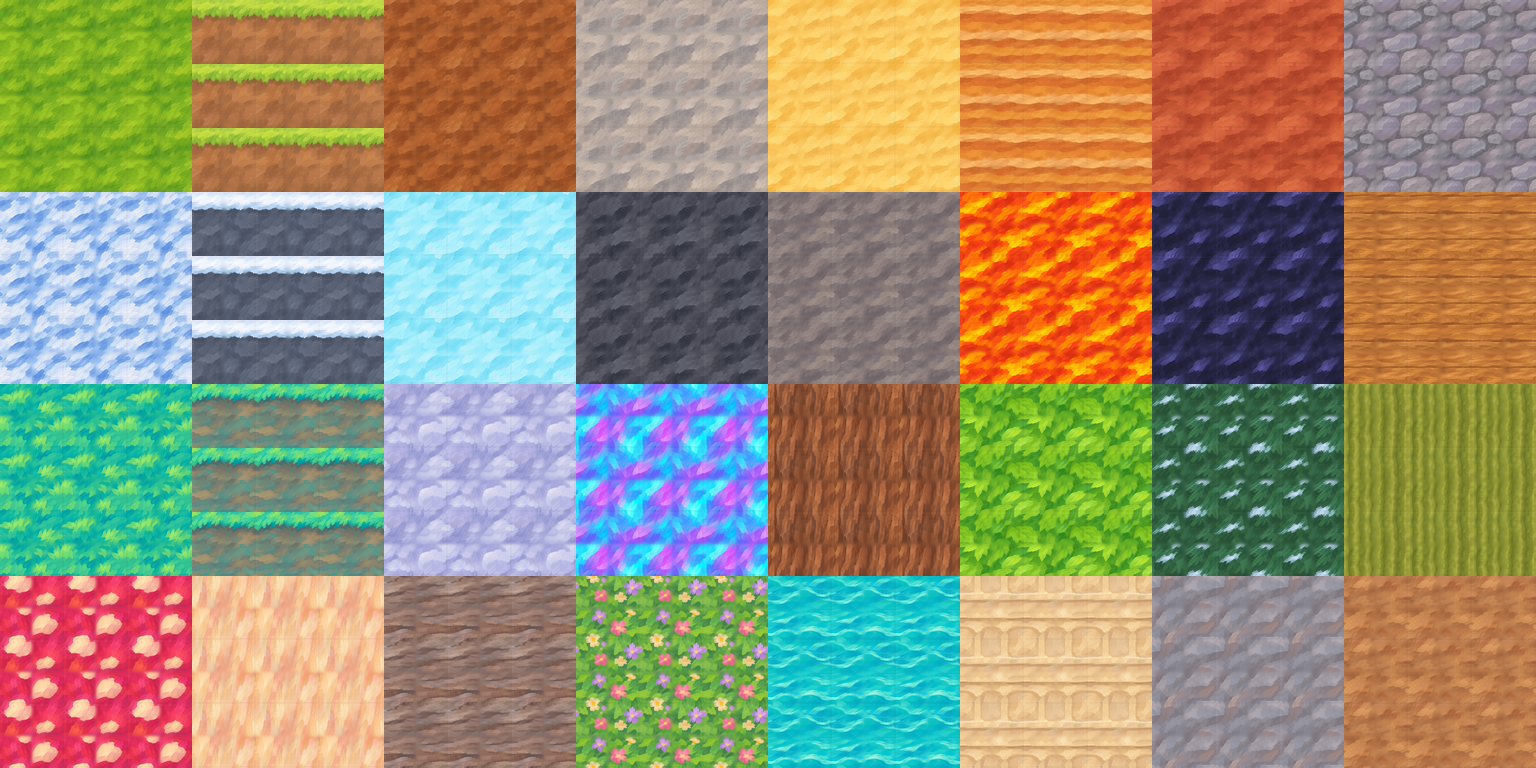
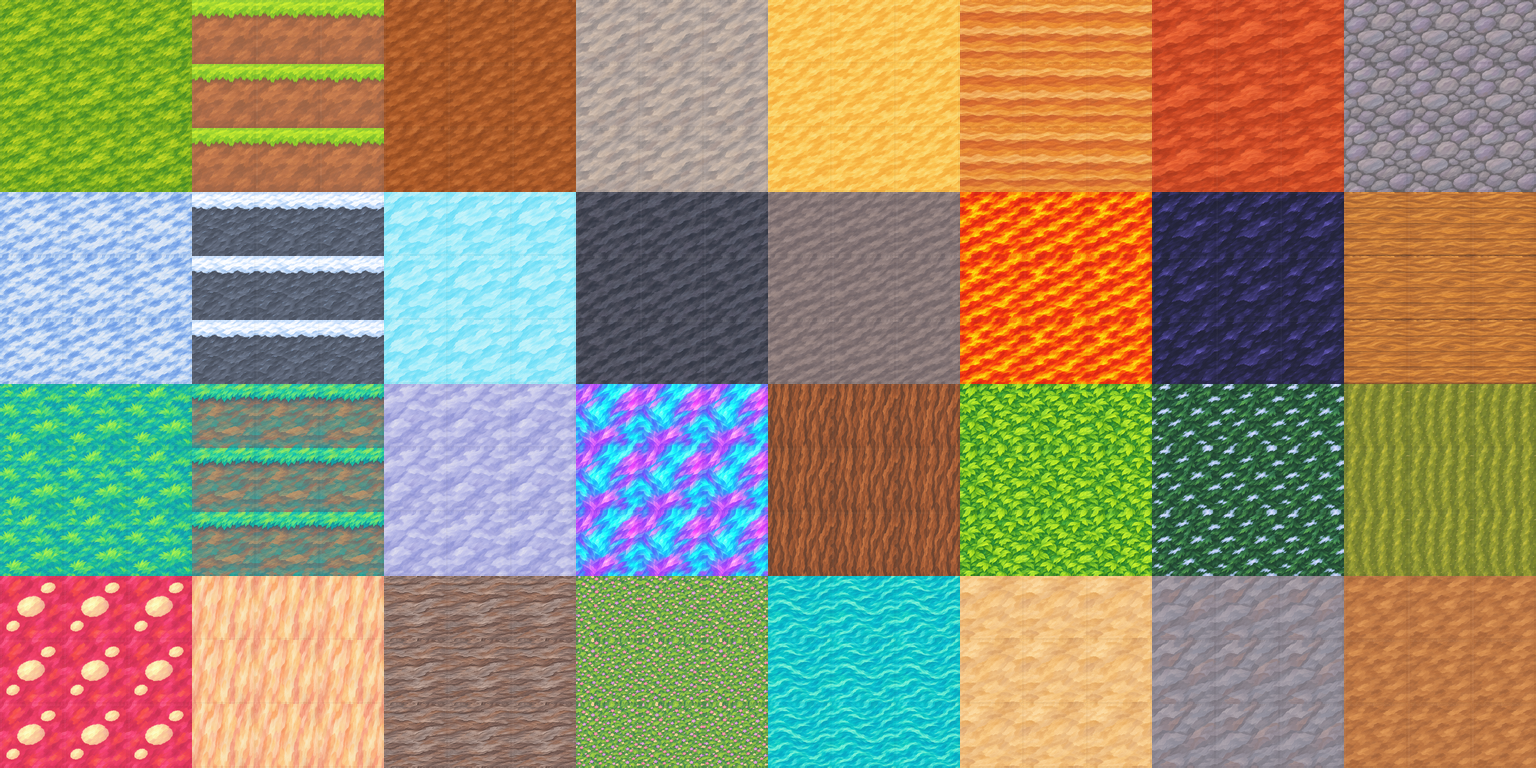
M-0188: アトラスの 32 マスを描き直し、中央の十字のぼけを消す（Luna の画像生成、ぼかさない継ぎ目）

diff --git a/tools/diorama/pack_atlas.py b/tools/diorama/pack_atlas.py
@@ -3,9 +3,10 @@
 from __future__ import annotations
 
 import json
+import math
 from pathlib import Path
 
-from PIL import Image, ImageChops, ImageDraw, ImageFilter, ImageStat
+from PIL import Image, ImageDraw, ImageEnhance, ImageStat
 
 
 ROOT = Path(__file__).resolve().parents[2]
@@ -15,8 +16,6 @@ SHOT_DIR = ROOT / "art" / "shots" / "diorama" / "tex"
 TILE_SIZE = 256
 EXTRUDE = 4
 INTERIOR_SIZE = TILE_SIZE - EXTRUDE * 2
-SEAM_BLUR_RATIO = 0.028
-SEAM_BAND_RATIO = 0.06
 
 # docs/diorama/contract.md の固定配置。
 TILE_ROWS = [
@@ -28,8 +27,9 @@ TILE_ROWS = [
 
 BRIGHT_MATERIALS = {"grass_top", "grass_side", "sand", "sandstone_side", "snow_top", "snow_side"}
 DARK_MATERIALS = {"basalt", "obsidian"}
-# 個別に描き直した元画像を、シートからの切り出しより優先する。
-SOURCE_OVERRIDES = {"cactus": "cactus_v2.png"}
+# 全材のシームレス画像を、元のシート切り出しより優先する。
+SOURCE_OVERRIDES = {name: f"{name}_seamless.png" for row in TILE_ROWS for name in row}
+REFERENCE_OVERRIDES = {"cactus": "cactus_v2.png"}
 
 
 def mean_color_and_brightness(image: Image.Image) -> tuple[tuple[int, int, int], float]:
@@ -49,23 +49,17 @@ def crop_center_square(image: Image.Image) -> Image.Image:
     return image.crop((left, top, left + side, top + side))
 
 
-def repair_seams(image: Image.Image, wrap_vertical: bool) -> Image.Image:
-    """半分ずらし、中央のつなぎ目を薄くぼかして混ぜる。"""
-    width, height = image.size
-    shifted = ImageChops.offset(image, width // 2, height // 2 if wrap_vertical else 0)
-    radius = max(2, round(min(width, height) * SEAM_BLUR_RATIO))
-    blurred = shifted.filter(ImageFilter.GaussianBlur(radius=radius))
-    band = max(6, round(min(width, height) * SEAM_BAND_RATIO))
-    mask = Image.new("L", image.size, 0)
-    pixels = mask.load()
-    center_x = width // 2
-    center_y = height // 2
-    for y in range(height):
-        y_weight = max(0.0, 1.0 - abs(y - center_y) / band) if wrap_vertical else 0.0
-        for x in range(width):
-            x_weight = max(0.0, 1.0 - abs(x - center_x) / band)
-            pixels[x, y] = round(255 * max(x_weight, y_weight))
-    return Image.composite(blurred, shifted, mask)
+def match_mean_color(image: Image.Image, reference: Image.Image) -> Image.Image:
+    """描き直した絵の平均 RGB を元素材に合わせる。"""
+    image = image.convert("RGB")
+    target = ImageStat.Stat(reference.convert("RGB")).mean
+    current = ImageStat.Stat(image).mean
+    lookup = [
+        max(0, min(255, value + round(target[channel] - current[channel])))
+        for channel in range(3)
+        for value in range(256)
+    ]
+    return image.point(lookup)
 
 
 def adjust_required_brightness(name: str, image: Image.Image) -> Image.Image:
@@ -128,16 +122,64 @@ def add_block_edge(image: Image.Image) -> Image.Image:
     return Image.alpha_composite(image.convert("RGBA"), overlay).convert("RGB")
 
 
-def prepare_tile(name: str) -> Image.Image:
-    path = SOURCE_DIR / SOURCE_OVERRIDES.get(name, f"{name}.png")
+def prepare_tile(name: str) -> tuple[Image.Image, Image.Image]:
+    path = SOURCE_DIR / SOURCE_OVERRIDES[name]
     if not path.is_file():
         raise FileNotFoundError(f"元画像がありません: {path}")
-    source = Image.open(path).convert("RGB")
+    reference_path = SOURCE_DIR / REFERENCE_OVERRIDES.get(name, f"{name}.png")
+    reference = crop_center_square(Image.open(reference_path).convert("RGB"))
+    source = match_mean_color(Image.open(path), reference)
     source = crop_center_square(source)
     interior = source.resize((INTERIOR_SIZE, INTERIOR_SIZE), Image.Resampling.LANCZOS)
-    interior = repair_seams(interior, wrap_vertical=not name.endswith("_side"))
     interior = adjust_required_brightness(name, interior)
-    return add_block_edge(extrude_edges(interior))
+    interior = preserve_outline_strength(interior, reference)
+    return add_block_edge(extrude_edges(interior)), interior
+
+
+def laplacian_variance(image: Image.Image, center_band: bool = False) -> float:
+    """グレースケールの4近傍ラプラシアン分散を返す。"""
+    gray = image.convert("L")
+    pixels = gray.load()
+    width, height = gray.size
+    center_x, center_y = width // 2, height // 2
+    total = 0
+    total_squared = 0
+    count = 0
+    for y in range(1, height - 1):
+        in_horizontal_band = center_y - 12 <= y < center_y + 12
+        for x in range(1, width - 1):
+            in_vertical_band = center_x - 12 <= x < center_x + 12
+            if center_band and not (in_vertical_band or in_horizontal_band):
+                continue
+            value = 4 * pixels[x, y] - pixels[x - 1, y] - pixels[x + 1, y] - pixels[x, y - 1] - pixels[x, y + 1]
+            total += value
+            total_squared += value * value
+            count += 1
+    mean = total / count
+    return total_squared / count - mean * mean
+
+
+def preserve_outline_strength(image: Image.Image, reference: Image.Image) -> Image.Image:
+    """コントラストだけを補い、元素材の輪郭分散の 85% を保つ。"""
+    reference_256 = reference.resize((TILE_SIZE, TILE_SIZE), Image.Resampling.LANCZOS)
+    target = laplacian_variance(reference_256) * 0.85
+    result = image
+    for _ in range(4):
+        current = laplacian_variance(result.resize((TILE_SIZE, TILE_SIZE), Image.Resampling.LANCZOS))
+        if current >= target or current <= 0:
+            break
+        factor = math.sqrt(target / current) * 1.02
+        result = ImageEnhance.Contrast(result).enhance(factor)
+    return result
+
+
+def edge_color_delta(texture: Image.Image) -> tuple[tuple[float, float, float], float]:
+    """外周の縁線を除いた左右端列の平均色差を返す。"""
+    width, height = texture.size
+    left = ImageStat.Stat(texture.crop((0, 0, 1, height))).mean
+    right = ImageStat.Stat(texture.crop((width - 1, 0, width, height))).mean
+    delta = tuple(abs(a - b) for a, b in zip(left, right))
+    return delta, sum(delta) / 3
 
 
 def save_tiling_preview(tiles: dict[str, Image.Image]) -> Path:
@@ -162,11 +204,13 @@ def save_tiling_preview(tiles: dict[str, Image.Image]) -> Path:
 def main() -> None:
     ATLAS_DIR.mkdir(parents=True, exist_ok=True)
     tiles: dict[str, Image.Image] = {}
+    textures: dict[str, Image.Image] = {}
     atlas = Image.new("RGB", (8 * TILE_SIZE, 4 * TILE_SIZE))
     for row, names in enumerate(TILE_ROWS):
         for col, name in enumerate(names):
-            tile = prepare_tile(name)
+            tile, texture = prepare_tile(name)
             tiles[name] = tile
+            textures[name] = texture
             atlas.paste(tile, (col * TILE_SIZE, row * TILE_SIZE))
 
     atlas_path = ATLAS_DIR / "atlas.png"
@@ -193,6 +237,31 @@ def main() -> None:
         for name in row:
             color, brightness = mean_color_and_brightness(tiles[name].crop((EXTRUDE, EXTRUDE, TILE_SIZE - EXTRUDE, TILE_SIZE - EXTRUDE)))
             print(f"{name:<14} #{color[0]:02X}{color[1]:02X}{color[2]:02X}   {brightness:.3f}")
+
+    print("material       center/whole  output/source  LR mean dRGB       mean d")
+    failures = []
+    for row in TILE_ROWS:
+        for name in row:
+            texture = textures[name].resize((TILE_SIZE, TILE_SIZE), Image.Resampling.LANCZOS)
+            reference_name = REFERENCE_OVERRIDES.get(name, f"{name}.png")
+            source_path = SOURCE_DIR / reference_name
+            source = crop_center_square(Image.open(source_path).convert("RGB"))
+            source_reference = source.resize((TILE_SIZE, TILE_SIZE), Image.Resampling.LANCZOS)
+            whole_strength = laplacian_variance(texture)
+            center_strength = laplacian_variance(texture, center_band=True)
+            source_strength = laplacian_variance(source_reference)
+            center_ratio = center_strength / whole_strength if whole_strength else 0.0
+            preserved_ratio = whole_strength / source_strength if source_strength else 0.0
+            delta, mean_delta = edge_color_delta(textures[name])
+            print(
+                f"{name:<14} {center_ratio:>6.3f}        {preserved_ratio:>6.3f}       "
+                f"({delta[0]:4.1f},{delta[1]:4.1f},{delta[2]:4.1f})    {mean_delta:5.2f}"
+            )
+            if center_ratio < 0.8 or preserved_ratio < 0.85:
+                failures.append(f"{name}: center/whole={center_ratio:.3f}, output/source={preserved_ratio:.3f}")
+
+    if failures:
+        raise SystemExit("輪郭の基準を満たさないマス: " + "; ".join(failures))
 
 
 if __name__ == "__main__":
